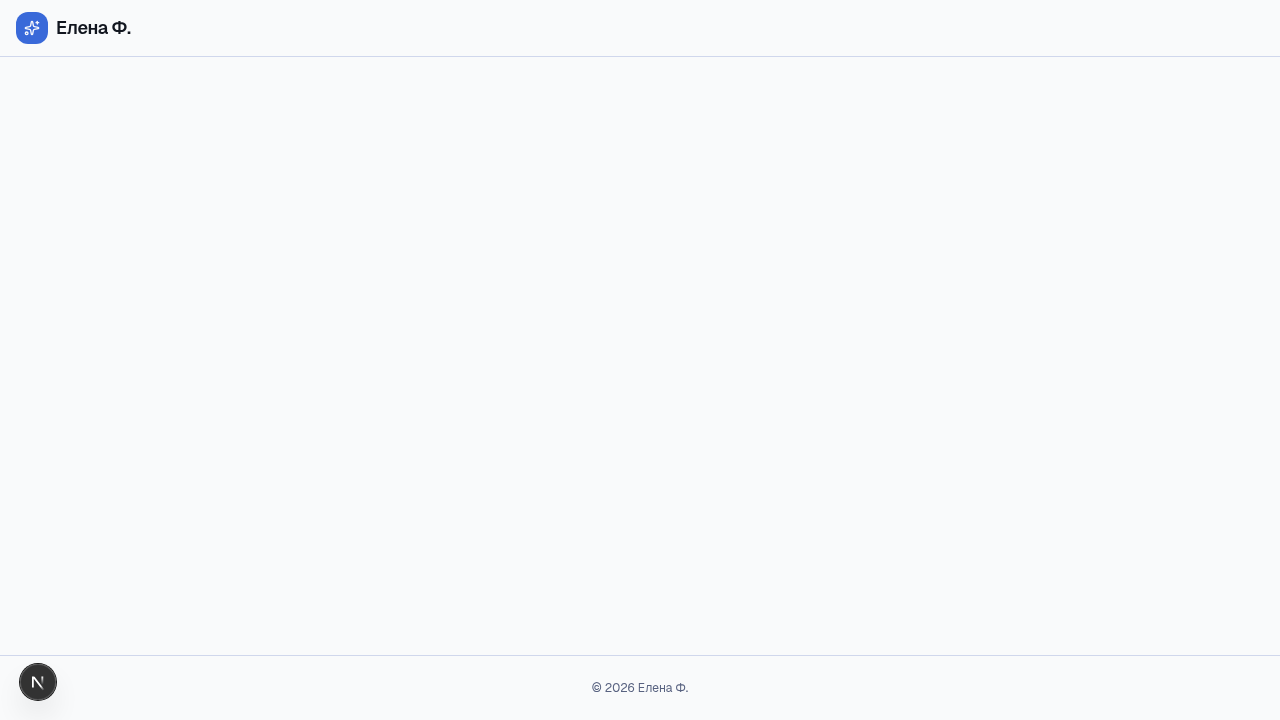
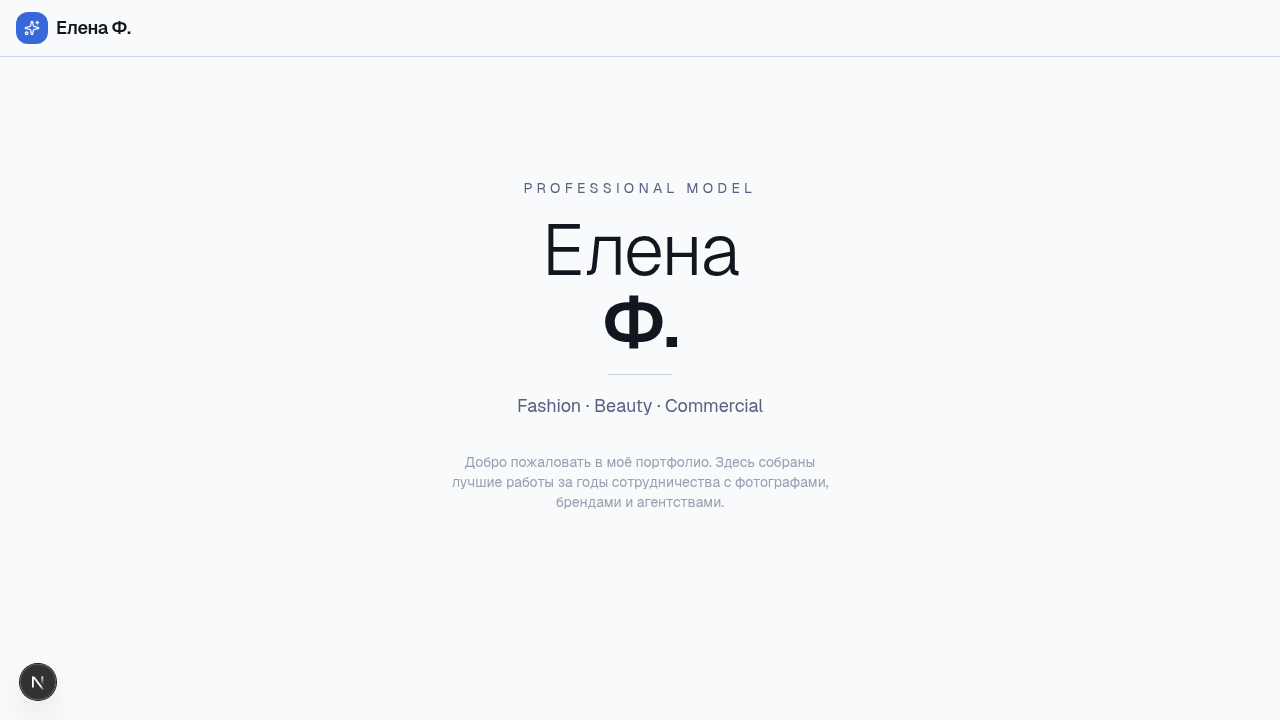
chore: implement task-002 - Портфолио / Галерея с категориями

diff --git a/components/portfolio-gallery.tsx b/components/portfolio-gallery.tsx
@@ -1,0 +1,203 @@
+"use client";
+
+import { useState, useCallback, useEffect } from "react";
+import { X, ChevronLeft, ChevronRight, Camera } from "lucide-react";
+import { cn } from "@/lib/utils";
+import { portfolioItems, categories, PortfolioItem } from "@/lib/data";
+
+type CategoryId = (typeof categories)[number]["id"];
+
+export function PortfolioGallery() {
+  const [activeCategory, setActiveCategory] = useState<CategoryId>("all");
+  const [selectedItem, setSelectedItem] = useState<PortfolioItem | null>(null);
+  const [loadedImages, setLoadedImages] = useState<Set<string>>(new Set());
+
+  const filtered =
+    activeCategory === "all"
+      ? portfolioItems
+      : portfolioItems.filter((item) => item.category === activeCategory);
+
+  const handleKeyDown = useCallback(
+    (e: KeyboardEvent) => {
+      if (!selectedItem) return;
+      if (e.key === "Escape") {
+        setSelectedItem(null);
+        return;
+      }
+      if (e.key === "ArrowLeft" || e.key === "ArrowRight") {
+        const currentIndex = filtered.findIndex(
+          (item) => item.id === selectedItem.id
+        );
+        if (currentIndex === -1) return;
+        const nextIndex =
+          e.key === "ArrowLeft"
+            ? (currentIndex - 1 + filtered.length) % filtered.length
+            : (currentIndex + 1) % filtered.length;
+        setSelectedItem(filtered[nextIndex]);
+      }
+    },
+    [selectedItem, filtered]
+  );
+
+  useEffect(() => {
+    if (!selectedItem) return;
+    window.addEventListener("keydown", handleKeyDown);
+    document.body.style.overflow = "hidden";
+    return () => {
+      window.removeEventListener("keydown", handleKeyDown);
+      document.body.style.overflow = "";
+    };
+  }, [selectedItem, handleKeyDown]);
+
+  function handleImageLoad(id: string) {
+    setLoadedImages((prev) => new Set(prev).add(id));
+  }
+
+  return (
+    <section id="portfolio" className="py-24 px-4">
+      <div className="container mx-auto max-w-7xl">
+        <div className="text-center space-y-4 mb-12">
+          <p className="text-sm uppercase tracking-[0.3em] text-muted-foreground">
+            Portfolio
+          </p>
+          <h2 className="text-4xl font-light tracking-tight sm:text-5xl">
+            Мои работы
+          </h2>
+          <div className="mx-auto h-px w-16 bg-muted-foreground/30" />
+        </div>
+
+        <div className="flex flex-wrap justify-center gap-2 mb-12">
+          {categories.map((cat) => (
+            <button
+              key={cat.id}
+              onClick={() => setActiveCategory(cat.id)}
+              className={cn(
+                "px-5 py-2 rounded-full text-sm font-medium transition-all duration-300",
+                activeCategory === cat.id
+                  ? "bg-primary text-primary-foreground shadow-md"
+                  : "bg-muted text-muted-foreground hover:bg-muted/80"
+              )}
+            >
+              {cat.label}
+            </button>
+          ))}
+        </div>
+
+        <div className="grid grid-cols-1 sm:grid-cols-2 lg:grid-cols-3 gap-6">
+          {filtered.map((item, index) => (
+            <button
+              key={item.id}
+              onClick={() => setSelectedItem(item)}
+              className={cn(
+                "group relative overflow-hidden rounded-xl bg-muted text-left",
+                "animate-in fade-in slide-in-from-bottom-4 duration-500"
+              )}
+              style={{ animationDelay: `${index * 80}ms` }}
+            >
+              <div
+                className="relative w-full"
+                style={{
+                  aspectRatio: `${item.width} / ${item.height}`,
+                }}
+              >
+                <div
+                  className={cn(
+                    "absolute inset-0 bg-muted transition-opacity duration-500",
+                    loadedImages.has(item.id) ? "opacity-0" : "opacity-100"
+                  )}
+                />
+                <img
+                  src={item.src}
+                  alt={item.alt}
+                  loading="lazy"
+                  onLoad={() => handleImageLoad(item.id)}
+                  className={cn(
+                    "h-full w-full object-cover transition-all duration-500",
+                    "group-hover:scale-105 group-hover:opacity-90",
+                    loadedImages.has(item.id) ? "opacity-100" : "opacity-0"
+                  )}
+                />
+              </div>
+              <div className="absolute inset-0 bg-gradient-to-t from-black/50 via-transparent to-transparent opacity-0 group-hover:opacity-100 transition-opacity duration-300" />
+              <div className="absolute bottom-0 left-0 right-0 p-4 translate-y-2 group-hover:translate-y-0 opacity-0 group-hover:opacity-100 transition-all duration-300">
+                <p className="text-white text-sm font-medium">{item.title}</p>
+                <p className="text-white/70 text-xs capitalize">
+                  {item.category}
+                </p>
+              </div>
+            </button>
+          ))}
+        </div>
+
+        {filtered.length === 0 && (
+          <div className="text-center py-16">
+            <div className="inline-flex items-center justify-center w-16 h-16 rounded-full bg-muted mb-4">
+              <Camera className="h-6 w-6 text-muted-foreground" />
+            </div>
+            <p className="text-muted-foreground">Нет работ в этой категории</p>
+          </div>
+        )}
+      </div>
+
+      {selectedItem && (
+        <div
+          className="fixed inset-0 z-[100] flex items-center justify-center bg-black/90 backdrop-blur-sm animate-in fade-in duration-200"
+          onClick={() => setSelectedItem(null)}
+        >
+          <button
+            onClick={() => setSelectedItem(null)}
+            className="absolute top-4 right-4 z-10 p-2 rounded-full bg-black/50 text-white hover:bg-black/70 transition-colors"
+            aria-label="Закрыть"
+          >
+            <X className="h-6 w-6" />
+          </button>
+
+          <button
+            onClick={(e) => {
+              e.stopPropagation();
+              const idx = filtered.findIndex((i) => i.id === selectedItem.id);
+              const prev = (idx - 1 + filtered.length) % filtered.length;
+              setSelectedItem(filtered[prev]);
+            }}
+            className="absolute left-4 top-1/2 -translate-y-1/2 z-10 p-2 rounded-full bg-black/50 text-white hover:bg-black/70 transition-colors"
+            aria-label="Предыдущее"
+          >
+            <ChevronLeft className="h-6 w-6" />
+          </button>
+
+          <button
+            onClick={(e) => {
+              e.stopPropagation();
+              const idx = filtered.findIndex((i) => i.id === selectedItem.id);
+              const next = (idx + 1) % filtered.length;
+              setSelectedItem(filtered[next]);
+            }}
+            className="absolute right-4 top-1/2 -translate-y-1/2 z-10 p-2 rounded-full bg-black/50 text-white hover:bg-black/70 transition-colors"
+            aria-label="Следующее"
+          >
+            <ChevronRight className="h-6 w-6" />
+          </button>
+
+          <div
+            className="relative max-h-[90vh] max-w-[90vw] animate-in zoom-in-95 duration-200"
+            onClick={(e) => e.stopPropagation()}
+          >
+            <img
+              src={selectedItem.src}
+              alt={selectedItem.alt}
+              className="max-h-[90vh] max-w-[90vw] h-auto w-auto rounded-lg object-contain"
+            />
+            <div className="absolute bottom-0 left-0 right-0 p-4 bg-gradient-to-t from-black/60 to-transparent rounded-b-lg">
+              <p className="text-white text-lg font-medium">
+                {selectedItem.title}
+              </p>
+              <p className="text-white/70 text-sm capitalize">
+                {selectedItem.category}
+              </p>
+            </div>
+          </div>
+        </div>
+      )}
+    </section>
+  );
+}

diff --git a/lib/data.ts b/lib/data.ts
@@ -1,0 +1,109 @@
+export interface PortfolioItem {
+  id: string;
+  src: string;
+  alt: string;
+  category: "fashion" | "beauty" | "commercial";
+  title: string;
+  width: number;
+  height: number;
+}
+
+export const categories = [
+  { id: "all", label: "Все" },
+  { id: "fashion", label: "Fashion" },
+  { id: "beauty", label: "Beauty" },
+  { id: "commercial", label: "Commercial" },
+] as const;
+
+export const portfolioItems: PortfolioItem[] = [
+  {
+    id: "fashion-1",
+    src: "https://picsum.photos/seed/fashion1/800/1000",
+    alt: "Fashion editorial look 1",
+    category: "fashion",
+    title: "Editorial Spring",
+    width: 800,
+    height: 1000,
+  },
+  {
+    id: "fashion-2",
+    src: "https://picsum.photos/seed/fashion2/800/1200",
+    alt: "Fashion editorial look 2",
+    category: "fashion",
+    title: "Haute Couture",
+    width: 800,
+    height: 1200,
+  },
+  {
+    id: "fashion-3",
+    src: "https://picsum.photos/seed/fashion3/800/800",
+    alt: "Fashion editorial look 3",
+    category: "fashion",
+    title: "Street Style",
+    width: 800,
+    height: 800,
+  },
+  {
+    id: "fashion-4",
+    src: "https://picsum.photos/seed/fashion4/800/900",
+    alt: "Fashion editorial look 4",
+    category: "fashion",
+    title: "Evening Gown",
+    width: 800,
+    height: 900,
+  },
+  {
+    id: "beauty-1",
+    src: "https://picsum.photos/seed/beauty1/800/800",
+    alt: "Beauty portrait 1",
+    category: "beauty",
+    title: "Natural Glow",
+    width: 800,
+    height: 800,
+  },
+  {
+    id: "beauty-2",
+    src: "https://picsum.photos/seed/beauty2/800/1000",
+    alt: "Beauty portrait 2",
+    category: "beauty",
+    title: "Bold Look",
+    width: 800,
+    height: 1000,
+  },
+  {
+    id: "beauty-3",
+    src: "https://picsum.photos/seed/beauty3/800/900",
+    alt: "Beauty portrait 3",
+    category: "beauty",
+    title: "Soft Elegance",
+    width: 800,
+    height: 900,
+  },
+  {
+    id: "commercial-1",
+    src: "https://picsum.photos/seed/commercial1/800/600",
+    alt: "Commercial shoot 1",
+    category: "commercial",
+    title: "Brand Campaign",
+    width: 800,
+    height: 600,
+  },
+  {
+    id: "commercial-2",
+    src: "https://picsum.photos/seed/commercial2/800/700",
+    alt: "Commercial shoot 2",
+    category: "commercial",
+    title: "Lifestyle",
+    width: 800,
+    height: 700,
+  },
+  {
+    id: "commercial-3",
+    src: "https://picsum.photos/seed/commercial3/800/800",
+    alt: "Commercial shoot 3",
+    category: "commercial",
+    title: "Product Shoot",
+    width: 800,
+    height: 800,
+  },
+];

diff --git a/app/page.tsx b/app/page.tsx
@@ -1,25 +1,30 @@
+import { PortfolioGallery } from "@/components/portfolio-gallery";
+
 export default function HomePage() {
   return (
-    <div className="min-h-[calc(100vh-9rem)] flex items-center justify-center px-4 py-16">
-      <div className="max-w-2xl w-full text-center space-y-8 animate-in fade-in slide-in-from-bottom-4 duration-700">
-        <div className="space-y-4">
-          <p className="text-sm uppercase tracking-[0.3em] text-muted-foreground">
-            Professional Model
-          </p>
-          <h1 className="text-5xl font-light tracking-tight sm:text-7xl">
-            Елена
-            <span className="block font-semibold">Ф.</span>
-          </h1>
-          <div className="mx-auto h-px w-16 bg-muted-foreground/30" />
-          <p className="text-lg text-muted-foreground max-w-md mx-auto leading-relaxed">
-            Fashion · Beauty · Commercial
+    <>
+      <div className="min-h-[calc(100vh-9rem)] flex items-center justify-center px-4 py-16">
+        <div className="max-w-2xl w-full text-center space-y-8 animate-in fade-in slide-in-from-bottom-4 duration-700">
+          <div className="space-y-4">
+            <p className="text-sm uppercase tracking-[0.3em] text-muted-foreground">
+              Professional Model
+            </p>
+            <h1 className="text-5xl font-light tracking-tight sm:text-7xl">
+              Елена
+              <span className="block font-semibold">Ф.</span>
+            </h1>
+            <div className="mx-auto h-px w-16 bg-muted-foreground/30" />
+            <p className="text-lg text-muted-foreground max-w-md mx-auto leading-relaxed">
+              Fashion · Beauty · Commercial
+            </p>
+          </div>
+          <p className="text-sm text-muted-foreground/60 max-w-sm mx-auto">
+            Добро пожаловать в моё портфолио. Здесь собраны лучшие работы за
+            годы сотрудничества с фотографами, брендами и агентствами.
           </p>
         </div>
-        <p className="text-sm text-muted-foreground/60 max-w-sm mx-auto">
-          Добро пожаловать в моё портфолио. Здесь собраны лучшие работы за годы
-          сотрудничества с фотографами, брендами и агентствами.
-        </p>
       </div>
-    </div>
+      <PortfolioGallery />
+    </>
   );
 }
